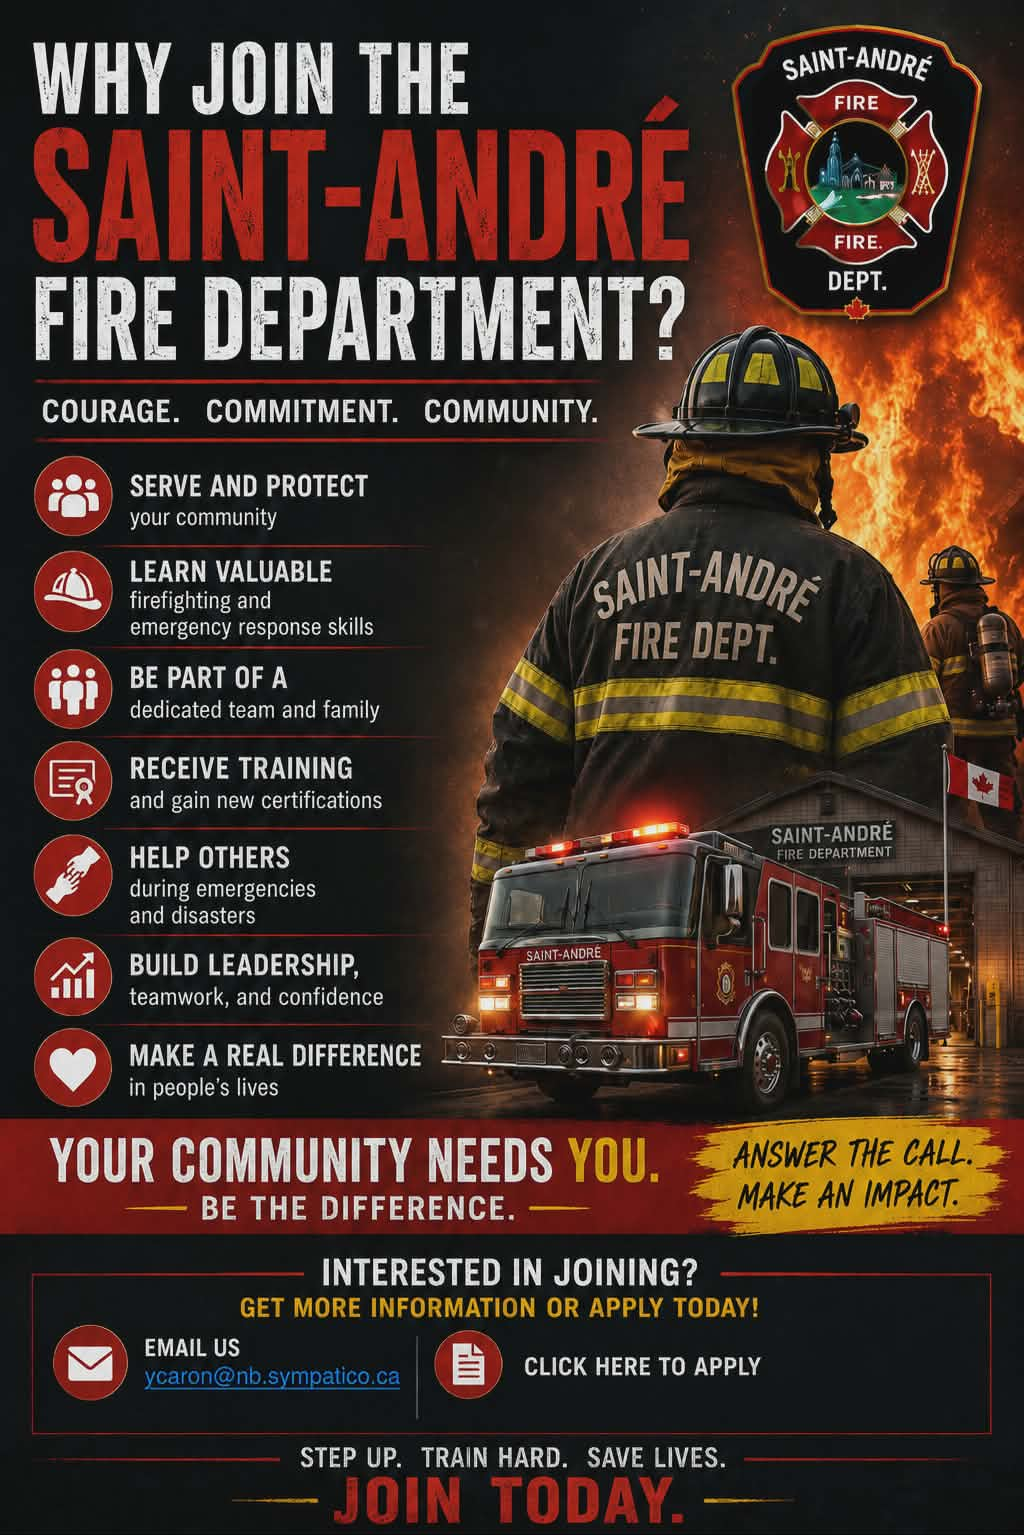
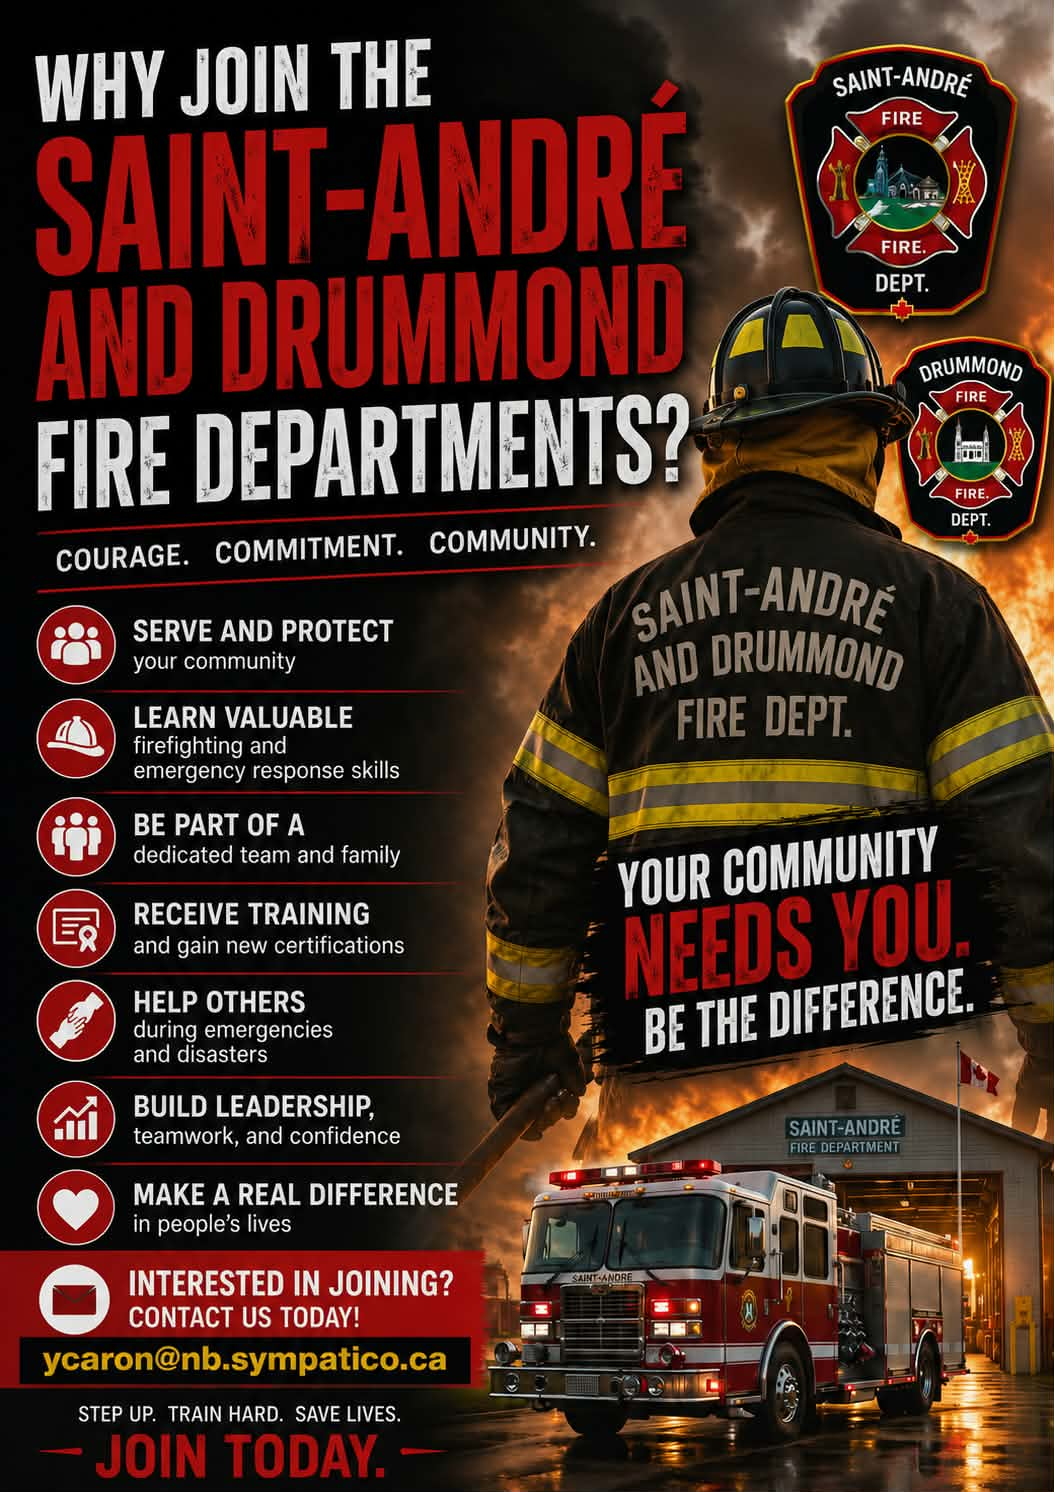
Swap in joint Saint-André and Drummond poster, reposition link hitboxes
New poster covers both departments. Mailto hitbox now covers the
contact bar and email strip; the info-doc hitbox covers the JOIN
TODAY button including its side dashes.

diff --git a/index.html b/index.html
@@ -3,7 +3,7 @@
 <head>
   <meta charset="UTF-8">
   <meta name="viewport" content="width=device-width, initial-scale=1.0">
-  <title>Join the Saint-André Fire Department</title>
+  <title>Join the Saint-André and Drummond Fire Departments</title>
   <style>
     html, body { margin: 0; padding: 0; background: #000; }
     .poster {
@@ -14,35 +14,35 @@
     }
     .poster img { width: 100%; height: auto; display: block; }
 
-    /* mailto hitbox over the whole EMAIL US cell (bottom-left) */
+    /* mailto hitbox over the CONTACT US TODAY bar + email address (bottom-left) */
     .email-link {
       position: absolute;
-      left: 3.5%;
-      top: 86%;
-      width: 37%;
-      height: 7.5%;
+      left: 0;
+      top: 83.8%;
+      width: 46.4%;
+      height: 9.1%;
     }
 
-    /* clickable hitbox over the whole MORE INFORMATION block (bottom-right) */
+    /* clickable hitbox over the JOIN TODAY button (bottom-left corner) */
     .moreinfo-link {
       position: absolute;
-      left: 41.5%;
-      top: 86%;
-      width: 55%;
-      height: 7.5%;
+      left: 4.8%;
+      top: 95.8%;
+      width: 36.3%;
+      height: 3.7%;
     }
   </style>
 </head>
 <body>
   <div class="poster">
-    <img src="poster.jpg" alt="Why join the Saint-André Fire Department? Email [email redacted] or click for more information.">
+    <img src="poster.jpg" alt="Why join the Saint-André and Drummond Fire Departments? Email [email redacted] or click Join Today for more information.">
 
-    <!-- EMAIL US -->
+    <!-- CONTACT US TODAY / email -->
     <a class="email-link"
-       href="mailto:[email redacted]?subject=Interested%20in%20Joining%20the%20Saint-Andr%C3%A9%20Fire%20Department"
-       aria-label="Email the Saint-André Fire Department to join"></a>
+       href="mailto:[email redacted]?subject=Interested%20in%20Joining%20the%20Saint-Andr%C3%A9%20and%20Drummond%20Fire%20Departments"
+       aria-label="Email the Saint-André and Drummond Fire Departments to join"></a>
 
-    <!-- MORE INFORMATION  (doc must be shared "Anyone with the link" or this 404s for visitors) -->
+    <!-- JOIN TODAY → info doc  (doc must be shared "Anyone with the link" or this 404s for visitors) -->
     <a class="moreinfo-link"
        href="https://docs.google.com/document/d/1ahpYGPSN_sQNv4SapQSOcx6VhpHOZehwKi-IN8h2_5g"
        target="_blank" rel="noopener"